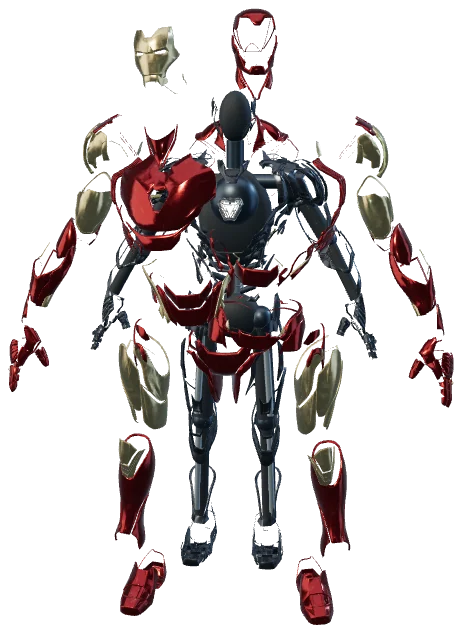
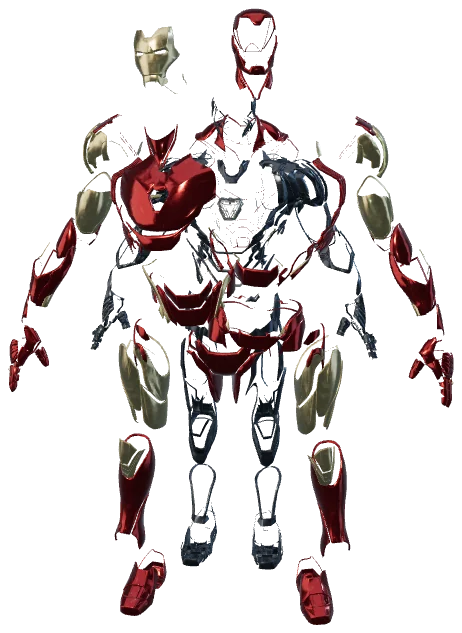
Remove the black support figure from the disassembled Iron Man suit

diff --git a/design-demos/scripts/main.js b/design-demos/scripts/main.js
@@ -159,7 +159,7 @@ document.querySelector('#map-button').addEventListener('click',()=>{
   mapDialog.querySelectorAll('[data-destination]').forEach(button=>button.addEventListener('click',()=>{mapDialog.close();goTo(Number(button.dataset.destination));}));showDialog(mapDialog);
 });
 document.querySelector('#credits-button').addEventListener('click',()=>{
-  storyDialog.innerHTML=`<div class="dialog-header"><span>THE STORY & THE ARTWORK</span><button class="dialog-close" aria-label="Close credits">${icons.close}</button></div><div class="story-body"><h2 id="story-title">A personal universe.</h2><p>Six influences and chapters in Bharath’s account. Their order tells a story; it does not assign invented dates to his life. The origin of the name DeadIndian stays a mystery.</p><p>Five worlds use original procedural 3D illustrations. The Iron Man suit adapts <a href="https://sketchfab.com/3d-models/iron-man-mark-85-rigged-dde1085c464d4f8da259fe6669ae4dd2" target="_blank" rel="noreferrer">Iron-Man Mark 85 | Rigged</a> by <a href="https://sketchfab.com/Nihar-9Afilms" target="_blank" rel="noreferrer">9A Films / Nihar Arora</a>, licensed under <a href="https://creativecommons.org/licenses/by/4.0/" target="_blank" rel="noreferrer">CC BY 4.0</a>. It has been optimized, divided into armor sections, and given original internal fittings and a disassembly animation. Minecraft, One Piece, and Iron Man belong to their respective owners. This fan-art study is not affiliated with or endorsed by them.</p><p>The Fedora logo is the supplied Fedora artwork. The calculator screenshot is an actual early portfolio artifact. The Linux screens are illustrations of the owner’s desktop journey.</p><p>Three.js is MIT licensed. The locally bundled typefaces are Manrope, Silkscreen, Instrument Serif, Bebas Neue, Space Grotesk, and Space Mono; their licenses are included with the demo.</p><p class="art-note">Visual prototype · 6 October 2026. This journey is ready for design feedback before integration into the portfolio.</p></div>`;showDialog(storyDialog);
+  storyDialog.innerHTML=`<div class="dialog-header"><span>THE STORY & THE ARTWORK</span><button class="dialog-close" aria-label="Close credits">${icons.close}</button></div><div class="story-body"><h2 id="story-title">A personal universe.</h2><p>Six influences and chapters in Bharath’s account. Their order tells a story; it does not assign invented dates to his life. The origin of the name DeadIndian stays a mystery.</p><p>Five worlds use original procedural 3D illustrations. The Iron Man suit adapts <a href="https://sketchfab.com/3d-models/iron-man-mark-85-rigged-dde1085c464d4f8da259fe6669ae4dd2" target="_blank" rel="noreferrer">Iron-Man Mark 85 | Rigged</a> by <a href="https://sketchfab.com/Nihar-9Afilms" target="_blank" rel="noreferrer">9A Films / Nihar Arora</a>, licensed under <a href="https://creativecommons.org/licenses/by/4.0/" target="_blank" rel="noreferrer">CC BY 4.0</a>. It has been optimized, divided into armor sections, and given a disassembly animation. Minecraft, One Piece, and Iron Man belong to their respective owners. This fan-art study is not affiliated with or endorsed by them.</p><p>The Fedora logo is the supplied Fedora artwork. The calculator screenshot is an actual early portfolio artifact. The Linux screens are illustrations of the owner’s desktop journey.</p><p>Three.js is MIT licensed. The locally bundled typefaces are Manrope, Silkscreen, Instrument Serif, Bebas Neue, Space Grotesk, and Space Mono; their licenses are included with the demo.</p><p class="art-note">Visual prototype · 6 October 2026. This journey is ready for design feedback before integration into the portfolio.</p></div>`;showDialog(storyDialog);
 });
 
 updateUI();requestAnimationFrame(routeFromHash);

diff --git a/design-demos/scripts/iron-man.js b/design-demos/scripts/iron-man.js
@@ -1,5 +1,4 @@
 import * as THREE from 'three';
-import { mergeGeometries } from '../vendor/utils/BufferGeometryUtils.js';
 import { GLTFLoader } from '../vendor/loaders/GLTFLoader.js';
 
 // Iron-Man Mark 85 by 9A Films / Nihar Arora, CC BY 4.0.
@@ -56,7 +55,6 @@ export async function buildIronMan() {
     const {move,turn,delay}=release(name,center);
     parts.push({item,home:center.clone(),away:new THREE.Vector3(...move),rest:item.quaternion.clone(),open:new THREE.Quaternion().setFromEuler(new THREE.Euler(...turn)),delay});
   }
-  buildInnerFrame(model);
   let separation=0;
   const world={group,model,explodedView:true,expansion:0,update(time,delta,state){
     const target=state.active?1:0;
@@ -70,49 +68,4 @@ export async function buildIronMan() {
     model.rotation.set(0,-.12-world.expansion*.10,0);
   }};
   world.update(0,1,{active:false});return world;
-}
-
-
-// Original internal fittings fill the hollow armor during the release sequence.
-// They sit within the source silhouette and are batched by material.
-function buildInnerFrame(model){
-  const metal=new THREE.MeshStandardMaterial({color:'#323b46',metalness:.88,roughness:.37});
-  const rubber=new THREE.MeshStandardMaterial({color:'#111820',metalness:.15,roughness:.67});
-  const steel=new THREE.MeshStandardMaterial({color:'#79828a',metalness:.95,roughness:.3});
-  const batches=new Map(),cylinder=new THREE.CylinderGeometry(1,1,1,12),sphere=new THREE.SphereGeometry(1,16,10);
-  function shape(geometry,material,position,scale,quaternion=new THREE.Quaternion()){
-    const transform=new THREE.Matrix4().compose(new THREE.Vector3(...position),quaternion,new THREE.Vector3(...scale));
-    const g=geometry.clone().applyMatrix4(transform);
-    if(!batches.has(material))batches.set(material,[]);batches.get(material).push(g);
-  }
-  function rod(a,b,radius,material){
-    const from=new THREE.Vector3(...a),to=new THREE.Vector3(...b),d=to.clone().sub(from);
-    shape(cylinder,material,from.add(to).multiplyScalar(.5).toArray(),[radius,d.length(),radius],new THREE.Quaternion().setFromUnitVectors(new THREE.Vector3(0,1,0),d.normalize()));
-  }
-  shape(sphere,rubber,[0,1.65,-.10],[.56,.75,.28]);
-  shape(sphere,metal,[0,1.94,.1],[.37,.38,.30]);
-  rod([0,.05,-.19],[0,2.51,-.19],.12,steel);
-  rod([0,2.41,-.05],[0,2.81,-.05],.13,metal);
-  shape(sphere,rubber,[0,3.16,-.03],[.24,.38,.21]);
-  for(let i=0;i<6;i++){
-    const y=.53+i*.17,width=.31+i*.035;
-    for(const side of [-1,1])rod([side*.09,y,-.0],[side*width,y+.10,.04],.045,metal);
-  }
-  shape(sphere,rubber,[0,.15,-.03],[.41,.35,.26]);
-  for(const side of [-1,1]){
-    const shoulder=[side*.86,2.20,-.12],elbow=[side*1.39,1.34,-.1],wrist=[side*1.84,.50,.15];
-    rod([side*.2,2.19,-.15],shoulder,.11,metal);
-    rod(shoulder,elbow,.13,rubber);rod(elbow,wrist,.09,rubber);
-    shape(sphere,metal,elbow,[.14,.14,.14]);
-    rod([side*.98,2.1,-.08],[side*1.35,1.43,-.06],.045,steel);
-    rod([side*1.44,1.25,-.03],[side*1.79,.61,.14],.035,steel);
-    const hip=[side*.40,.12,-.01],knee=[side*.50,-1.55,-.09],ankle=[side*.55,-3.20,-.18];
-    rod(hip,knee,.15,rubber);rod(knee,ankle,.11,rubber);
-    shape(sphere,metal,hip,[.18,.19,.18]);shape(sphere,metal,knee,[.17,.17,.16]);
-    rod([side*.48,-.02,.12],[side*.57,-1.4,.08],.055,steel);
-    rod([side*.55,-1.76,.02],[side*.60,-3.05,-.07],.047,steel);
-  }
-  const frame=new THREE.Group();frame.name='Support structure';model.add(frame);
-  for(const [material,geometries] of batches){frame.add(new THREE.Mesh(mergeGeometries(geometries),material));geometries.forEach(g=>g.dispose());}
-  cylinder.dispose();sphere.dispose();
 }

diff --git a/design-demos/REVIEW.md b/design-demos/REVIEW.md
@@ -1,5 +1,19 @@
 # Journey demo review
 
+## Final visual correction — 7 October 2026
+
+Removed the added black support figure from the expanded Iron Man suit, as
+requested in the last review. All 28 armor sections still separate and
+reassemble. Both fallback posters match the corrected model, and the credits
+no longer describe the removed fittings. The six-world standalone HTML is ready
+for visual review; porting it into the main site remains a later task.
+
+Rechecked the suit at desktop, phone, short-phone, and landscape sizes; keyboard
+activation, reassembly, reversing the animation, state retention, reduced motion,
+and fallback behavior passed. Desktop and phone renders were visually inspected.
+The two changed JavaScript files pass ESLint. Results and screenshots are saved
+under `.workshop/journey-review/qa/`.
+
 ## Detailed Iron Man suit — 6 October 2026
 
 The owner rejected the procedural suit and supplied a Mark 43 reference. This
@@ -12,8 +26,9 @@ Full provenance and adaptation details are in `assets/iron-man/CREDITS.md`.
 The 187 MB source was converted to a local GLB and WebP textures, about 6.6 MiB
 in total. Connected armor surfaces form 28 moving sections. The faceplate,
 helmet, chest, shoulders, arms, abdomen, hips, and leg armor follow separate
-release paths. Original internal fittings support the exposed frame. The scene
-uses 57 draw calls and 83,425 triangles; these are counts, not a device FPS claim.
+release paths. The added black support figure was removed at the owner’s
+request; the original model’s metallic details remain. The scene
+uses 54 draw calls and 79,009 triangles; these are counts, not a device FPS claim.
 
 Both assembled and separated poses have newly rendered transparent fallbacks.
 The existing poster remains available while the model loads. Keyboard activation,

diff --git a/design-demos/README.md b/design-demos/README.md
@@ -44,9 +44,9 @@ Five worlds are procedural original 3D illustrations. The Iron Man world uses
 **Iron-Man Mark 85 | Rigged** by **9A Films / Nihar Arora**, under **CC BY 4.0**.
 It replaces the rejected procedural suit. The owner's Mark 43 image informed
 the requested realism; the actual imported model is Mark 85. The mesh was
-simplified, divided into rigid armor sections, and given original internal
-fittings and disassembly paths. Source, license, and modification details are
-in [the model credits](assets/iron-man/CREDITS.md) and the in-page credits.
+simplified, divided into rigid armor sections, and given disassembly paths.
+Source, license, and modification details are in
+[the model credits](assets/iron-man/CREDITS.md) and the in-page credits.
 
 The Minecraft and One Piece scenes are fan-art homages. These properties belong
 to their respective owners; no endorsement is implied. The Linux screens
@@ -100,7 +100,7 @@ There is no portfolio application integration or production deployment here.
 
 The shipped suit is local: a 2.7 MB GLB plus WebP texture maps (about 6.6 MB total).
 The source rig is baked into its resting pose; the browser animates rigid panels.
-The scene stays below 100,000 triangles including its added internal fittings.
+The scene stays below 100,000 triangles with its original mechanical details.
 The existing poster remains usable while the asset loads or if loading fails.
 
 To repeat the conversion, save the credited source GLB to persistent disk and run:

diff --git a/design-demos/assets/iron-man/CREDITS.md b/design-demos/assets/iron-man/CREDITS.md
@@ -16,7 +16,7 @@ not substituted for it.
 Changes: baked the resting rig pose; normalized scale; grouped connected armor
 surfaces into anatomical sections; simplified geometry with meshoptimizer;
 resized and converted textures to WebP; omitted the invisible glass; adjusted
-materials; added original internal fittings, lighting, and rigid disassembly
+materials; added lighting and rigid disassembly
 paths. Both static suit posters are renders of this adaptation and carry the
 same attribution. The original authors do not endorse this portfolio.
 
